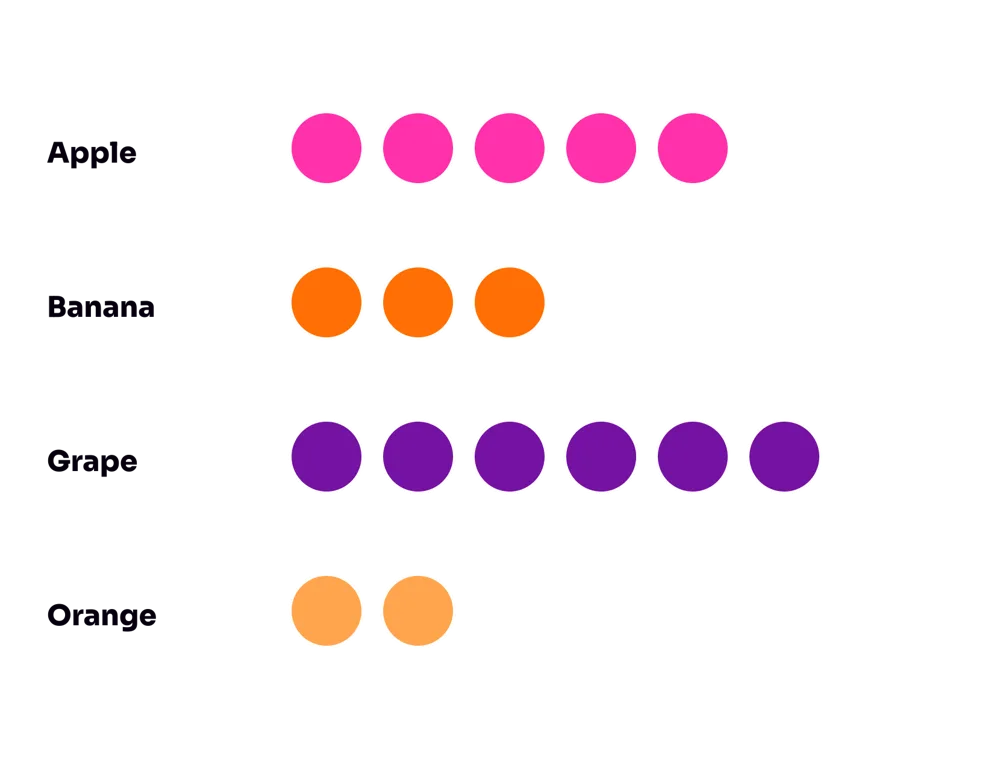
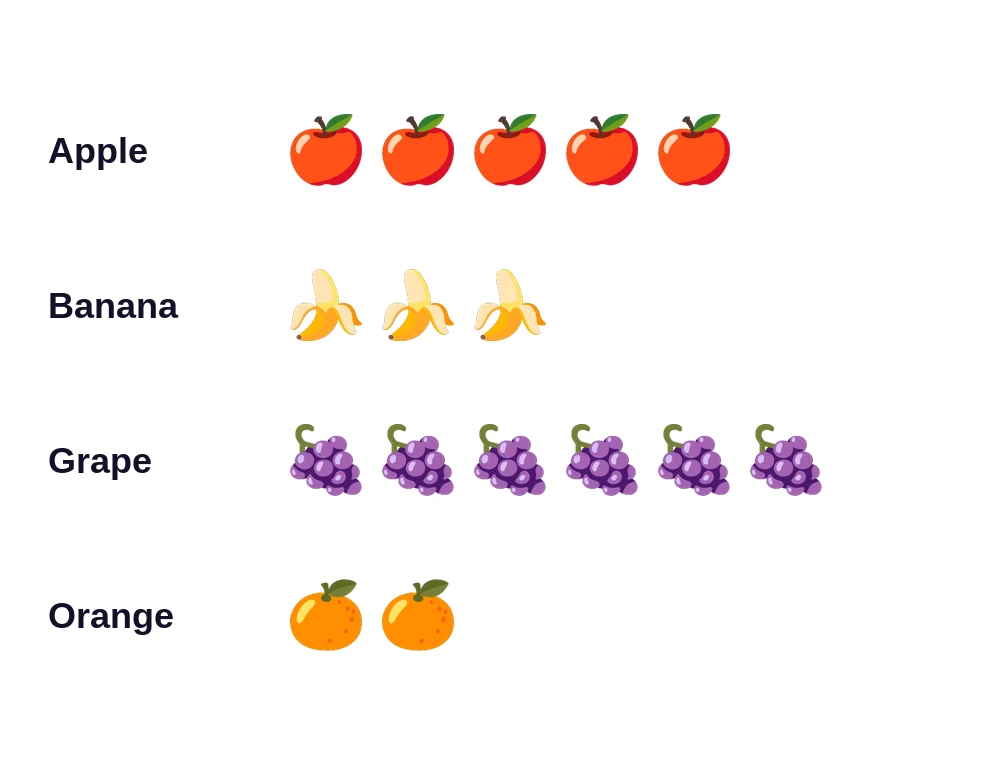
Show each fruit in the favourite fruit picture graphs
Claude-Session: https://claude.ai/code/session_018G9rgJVnS48YANnhgbmXcE

diff --git a/ifisa-academy-app/index.html b/ifisa-academy-app/index.html
@@ -575,7 +575,7 @@ function gSvg(ds, type) {
   if (type === "bar") { const bw = (W - 2 * P) / n; out += labs.map((l, i) => `<rect x="${P + i * bw + bw * .12}" y="${sy(vals[i], mn, mx)}" width="${bw * .76}" height="${sy(0, mn, mx) - sy(vals[i], mn, mx)}" rx="3" fill="${GCOL[i % 7]}"/>${n <= 12 ? `<text x="${P + i * bw + bw / 2}" y="${H - 14}" font-size="10" text-anchor="middle">${l}</text>` : ""}`).join(""); }
   if (type === "line") { out += `<path d="${vals.map((v, i) => `${i ? "L" : "M"}${sx(i, 0, n - 1)},${sy(v, mn, mx)}`).join(" ")}" fill="none" stroke="#7512A2" stroke-width="3"/>` + vals.map((v, i) => `<circle cx="${sx(i, 0, n - 1)}" cy="${sy(v, mn, mx)}" r="4" fill="#FF5A7A"/>${n <= 12 ? `<text x="${sx(i, 0, n - 1)}" y="${H - 14}" font-size="10" text-anchor="middle">${labs[i]}</text>` : ""}`).join(""); }
   if (type === "pie") { const tot = vals.reduce((a, b) => a + b, 0); let a0 = -Math.PI / 2; out = vals.map((v, i) => { const a1 = a0 + v / tot * Math.PI * 2, cx = 120, cy = 110, r = 85, lg = a1 - a0 > Math.PI ? 1 : 0; const d = `M${cx},${cy} L${cx + r * Math.cos(a0)},${cy + r * Math.sin(a0)} A${r},${r} 0 ${lg} 1 ${cx + r * Math.cos(a1)},${cy + r * Math.sin(a1)}Z`; a0 = a1; return `<path d="${d}" fill="${GCOL[i % 7]}" stroke="#fff" stroke-width="${n > 12 ? .5 : 2}"/>`; }).join("") + (n <= 7 ? labs.map((l, i) => `<rect x="226" y="${40 + i * 22}" width="12" height="12" rx="3" fill="${GCOL[i % 7]}"/><text x="244" y="${50 + i * 22}" font-size="11">${l} ${Math.round(vals[i] / tot * 100)}%</text>`).join("") : `<text x="226" y="110" font-size="11" fill="#E5484D">Too many slices!</text>`); }
-  if (type === "picto") { const icon = ds === "cat" ? "🍎" : ds === "part" ? "🧒" : "●"; const unit = Math.max(1, Math.ceil(Math.max(...vals) / 10)); out = labs.slice(0, 7).map((l, i) => `<text x="8" y="${30 + i * 26}" font-size="11">${l}</text>` + [...Array(Math.min(12, Math.round(vals[i] / unit)))].map((_, j) => `<text x="${70 + j * 21}" y="${32 + i * 26}" font-size="17">${icon}</text>`).join("")).join("") + `<text x="${W - 8}" y="${H - 6}" font-size="10" text-anchor="end" fill="#6B5A7E">each ${icon} = ${unit}${n > 7 ? " · only 7 rows fit!" : ""}</text>`; }
+  if (type === "picto") { const PIC = { Apple: "🍎", Banana: "🍌", Grape: "🍇", Mango: "🥭", Orange: "🍊", Walk: "🚶", Bus: "🚌", Car: "🚗", Bike: "🚲" }, iconFor = l => PIC[l] || "●", icon = ds === "cat" || ds === "part" ? "🙂" : "●"; const unit = Math.max(1, Math.ceil(Math.max(...vals) / 10)); out = labs.slice(0, 7).map((l, i) => `<text x="8" y="${30 + i * 26}" font-size="11">${l}</text>` + [...Array(Math.min(12, Math.round(vals[i] / unit)))].map((_, j) => `<text x="${70 + j * 21}" y="${32 + i * 26}" font-size="17">${iconFor((GDS[ds] && GDS[ds].labels && GDS[ds].labels[i]) || l)}</text>`).join("")).join("") + `<text x="${W - 8}" y="${H - 6}" font-size="10" text-anchor="end" fill="#6B5A7E">each picture = ${unit}${ds === "part" ? "%" : unit === 1 ? " child" : " children"}${n > 7 ? " · only 7 rows fit!" : ""}</text>`; }
   if (type === "scatter") { const pts = gNums(ds), xs = pts.map(p => p[0]), ys = pts.map(p => p[1]), x0 = Math.min(...xs) - .5, x1 = Math.max(...xs) + .5, y0 = Math.min(...ys) * .9, y1 = Math.max(...ys) * 1.05; out += pts.map(([x, y]) => `<circle cx="${sx(x, x0, x1)}" cy="${sy(y, y0, y1)}" r="5" fill="#FF5A7A" opacity=".85"/>`).join("") + (ds === "pair" ? `<text x="${W - P}" y="${H - 8}" font-size="10" text-anchor="end">hours of sleep →</text><text x="${P + 4}" y="${P - 4}" font-size="10">score ↑</text>` : ""); }
   if (type === "hist") { const raw = GDS[ds].raw || (GDS[ds].pts ? GDS[ds].pts.map(p => p[1]) : GDS[ds].vals); const lo = Math.min(...raw), hi = Math.max(...raw), nb = Math.min(6, raw.length), w = (hi - lo) / nb || 1; const cnt = Array(nb).fill(0); raw.forEach(v => cnt[Math.min(nb - 1, Math.floor((v - lo) / w))]++); const cm = Math.max(...cnt) * 1.15, bw = (W - 2 * P) / nb;
     out += cnt.map((c, i) => `<rect x="${P + i * bw}" y="${sy(c, 0, cm)}" width="${bw - 1}" height="${sy(0, 0, cm) - sy(c, 0, cm)}" fill="#7512A2"/><text x="${P + i * bw + bw / 2}" y="${H - 14}" font-size="9" text-anchor="middle">${Math.round(lo + i * w)}</text>`).join(""); }
